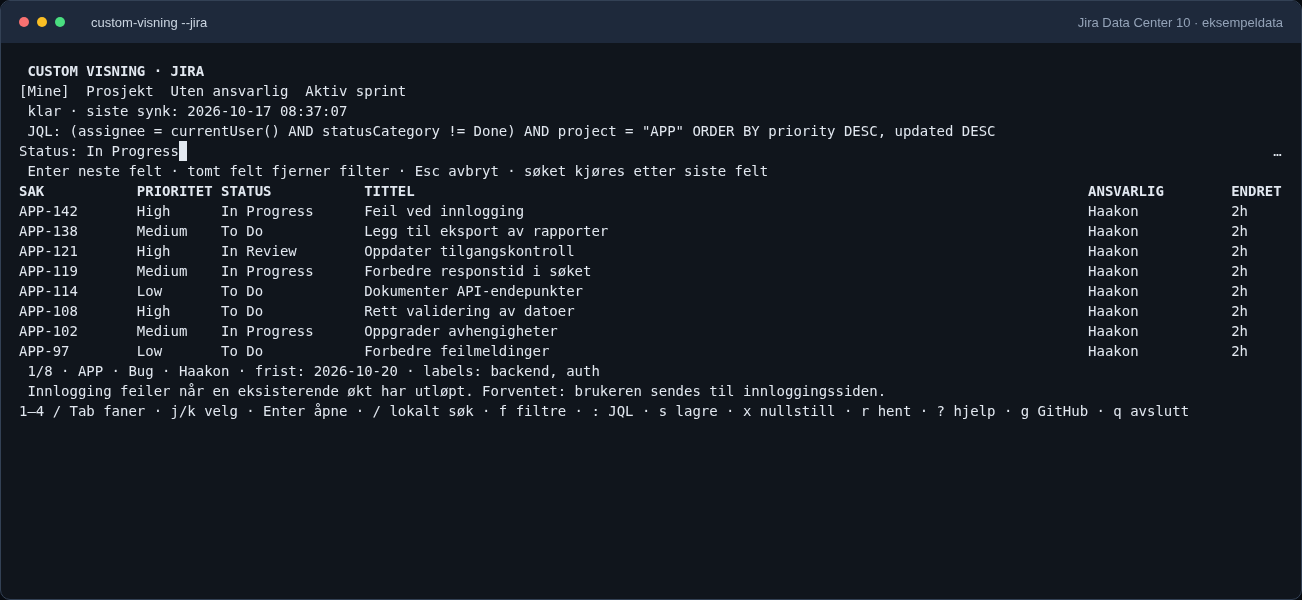
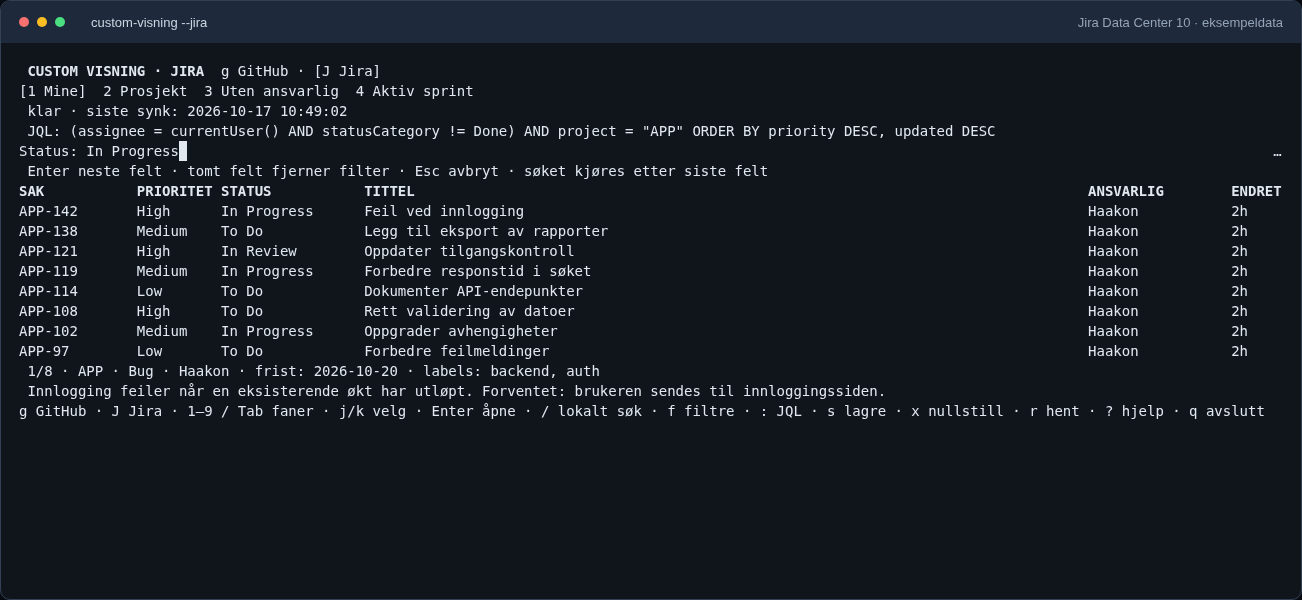
Match Jira tab shortcuts to GitHub and refresh terminal screenshots

Changed region(s): [[0.0, 0.66, 0.9524, 0.69], [0.0307, 0.09, 0.3379, 0.21]]

diff --git a/internal/tui/jira.go b/internal/tui/jira.go
@@ -247,14 +247,16 @@ func (m Model) updateJira(msg tea.Msg) (tea.Model, tea.Cmd) {
 			}
 			j.active = (j.active + delta + len(j.tabs)) % len(j.tabs)
 			j.custom = ""
-			j.input.SetValue("")
-			j.input.Prompt = ""
+			j.selected = 0
 			return m, m.refreshJira()
-		case "1", "2", "3", "4":
-			j.active = int(key[0] - '1')
+		case "1", "2", "3", "4", "5", "6", "7", "8", "9":
+			index := int(key[0] - '1')
+			if index >= len(j.tabs) {
+				return m, nil
+			}
+			j.active = index
 			j.custom = ""
-			j.input.SetValue("")
-			j.input.Prompt = ""
+			j.selected = 0
 			return m, m.refreshJira()
 		case "r":
 			return m, m.refreshJira()
@@ -304,6 +306,9 @@ func (m Model) jiraView() tea.View {
 	var tabs []string
 	for i, t := range j.tabs {
 		label := t.Name
+		if i < 9 {
+			label = fmt.Sprintf("%d %s", i+1, t.Name)
+		}
 		if i == j.active {
 			label = "[" + label + "]"
 		}
@@ -320,7 +325,7 @@ func (m Model) jiraView() tea.View {
 	}
 	lines = append(lines, fmt.Sprintf(" %s · siste synk: %s", state, sync), " JQL: "+clean(j.query))
 	if j.help {
-		lines = append(lines, "g: GitHub · J (Shift+j): Jira (i navigasjonsmodus)", "Tab / Shift+Tab: bytt standardfaner og lagrede søk", "f: kombiner filtre, Enter neste felt, Esc avbryter", ": skriv JQL (inkludert ORDER BY); s: lagre med navn", "/: filtrer lokalt; x: nullstill hurtigfiltre og egen JQL", "JQL-søk kjøres i Jira. Lagrede søk brukes uten hurtigfiltre.")
+		lines = append(lines, "g: GitHub · J (Shift+j): Jira (i navigasjonsmodus)", "1–9: velg fane direkte · Tab / Shift+Tab: neste / forrige fane", "f: kombiner filtre, Enter neste felt, Esc avbryter", ": skriv JQL (inkludert ORDER BY); s: lagre med navn", "/: filtrer lokalt; x: nullstill hurtigfiltre og egen JQL", "JQL-søk kjøres i Jira. Lagrede søk brukes uten hurtigfiltre.")
 	}
 	if j.mode != "" || j.input.Prompt == "/ " {
 		lines = append(lines, j.input.View())
@@ -376,7 +381,7 @@ func (m Model) jiraView() tea.View {
 	if j.notice != "" {
 		lines = append(lines, warning.Render(clean(j.notice)))
 	}
-	lines = append(lines, "g GitHub · J Jira · 1–4 / Tab faner · j/k velg · Enter åpne · / lokalt søk · f filtre · : JQL · s lagre · x nullstill · r hent · ? hjelp · q avslutt")
+	lines = append(lines, "g GitHub · J Jira · 1–9 / Tab faner · j/k velg · Enter åpne · / lokalt søk · f filtre · : JQL · s lagre · x nullstill · r hent · ? hjelp · q avslutt")
 	for i := range lines {
 		lines[i] = ansi.Truncate(lines[i], m.width, "…")
 	}

diff --git a/internal/tui/jira_test.go b/internal/tui/jira_test.go
@@ -3,6 +3,7 @@ package tui
 import (
 	"context"
 	"errors"
+	"strings"
 	"testing"
 
 	tea "charm.land/bubbletea/v2"
@@ -110,5 +111,32 @@ func TestJiraPastedJQLAndModeSwitch(t *testing.T) {
 	m = updated.(Model)
 	if m.loading[0] {
 		t.Fatal("background GitHub refresh was swallowed")
+	}
+}
+
+func TestJiraNumberedTabsAndLocalFilterMatchGitHub(t *testing.T) {
+	m := jiraModel(t)
+	defer m.cancel()
+	m.jira.tabs = append(m.jira.tabs, jira.Query{Name: "Bugs", JQL: "issuetype = Bug"})
+	m.jira.input.Prompt = "/ "
+	m.jira.input.SetValue("login")
+	m, cmd := update(m, key('5'))
+	if m.jira.active != 4 || cmd == nil || m.jira.custom != "" {
+		t.Fatal("saved query shortcut failed")
+	}
+	if m.jira.input.Value() != "login" || m.jira.input.Prompt != "/ " {
+		t.Fatal("tab change lost local filter")
+	}
+	if !strings.Contains(m.View().Content, "5 Bugs") {
+		t.Fatal("shortcut missing from tab label")
+	}
+	generation := m.jira.generation
+	m, cmd = update(m, key('9'))
+	if m.jira.active != 4 || cmd != nil || m.jira.generation != generation {
+		t.Fatal("missing tab shortcut changed view")
+	}
+	m, _ = update(m, key('2'))
+	if m.jira.active != 1 || m.jira.input.Value() != "login" {
+		t.Fatal("standard tab behavior differs")
 	}
 }

diff --git a/README.md b/README.md
@@ -246,7 +246,8 @@ prosjekter når prosjektfilter ikke er satt. Aktiv sprint krever Jira Software.
 | --- | --- |
 | `g` | Gå til GitHub; behold tilstanden |
 | `J` (Shift+j) | Gå til Jira; behold tilstanden |
-| `1`–`4` | Velg standardfane |
+| `1`–`4` | Velg standardfane, som i GitHub-visningen |
+| `5`–`9` | Velg de fem første lagrede søkene direkte |
 | `Tab` / `Shift+Tab`, `←` / `→` | Bytt mellom standardfaner og lagrede søk |
 | `j` / `k`, `↓` / `↑` | Velg sak |
 | `Enter` | Åpne valgt sak i Jira |
@@ -259,6 +260,10 @@ prosjekter når prosjektfilter ikke er satt. Aktiv sprint krever Jira Software.
 | `Esc` | Avbryt redigering eller fjern lokalt tekstfilter |
 | `?` | Vis/skjul hjelp |
 | `q` / `Ctrl+C` | Avslutt og kanseller nettverksarbeid |
+
+Fanene viser nummeret du kan trykke for å velge dem, på samme måte som i
+GitHub-visningen. Lokalt tekstfilter beholdes ved fanebytte. Flere enn fem lagrede
+søk nås med Tab eller piltastene.
 
 Hurtigfiltrene er prosjekt, status, ansvarlig (Jira-brukernavn), prioritet,
 sakstype, sprint, epic og label. Enter går til neste felt; tom verdi fjerner

diff --git a/docs/screenshots/README.md b/docs/screenshots/README.md
@@ -8,3 +8,5 @@ Skjermbildene viser den bygde terminalappen (`custom-visning --jira`) mot en lok
 - `jira-saved-query.png`: lagret søk «Mine feil» med tre treff.
 
 Bildene illustrerer grensesnittet og dokumenterer ikke tilkobling til en faktisk Jira-installasjon.
+
+Oppdatert med nummererte faner: `1–4` for standardvisninger og `5–9` for de første lagrede søkene. `g` åpner GitHub, og `J` (Shift+j) åpner Jira.
